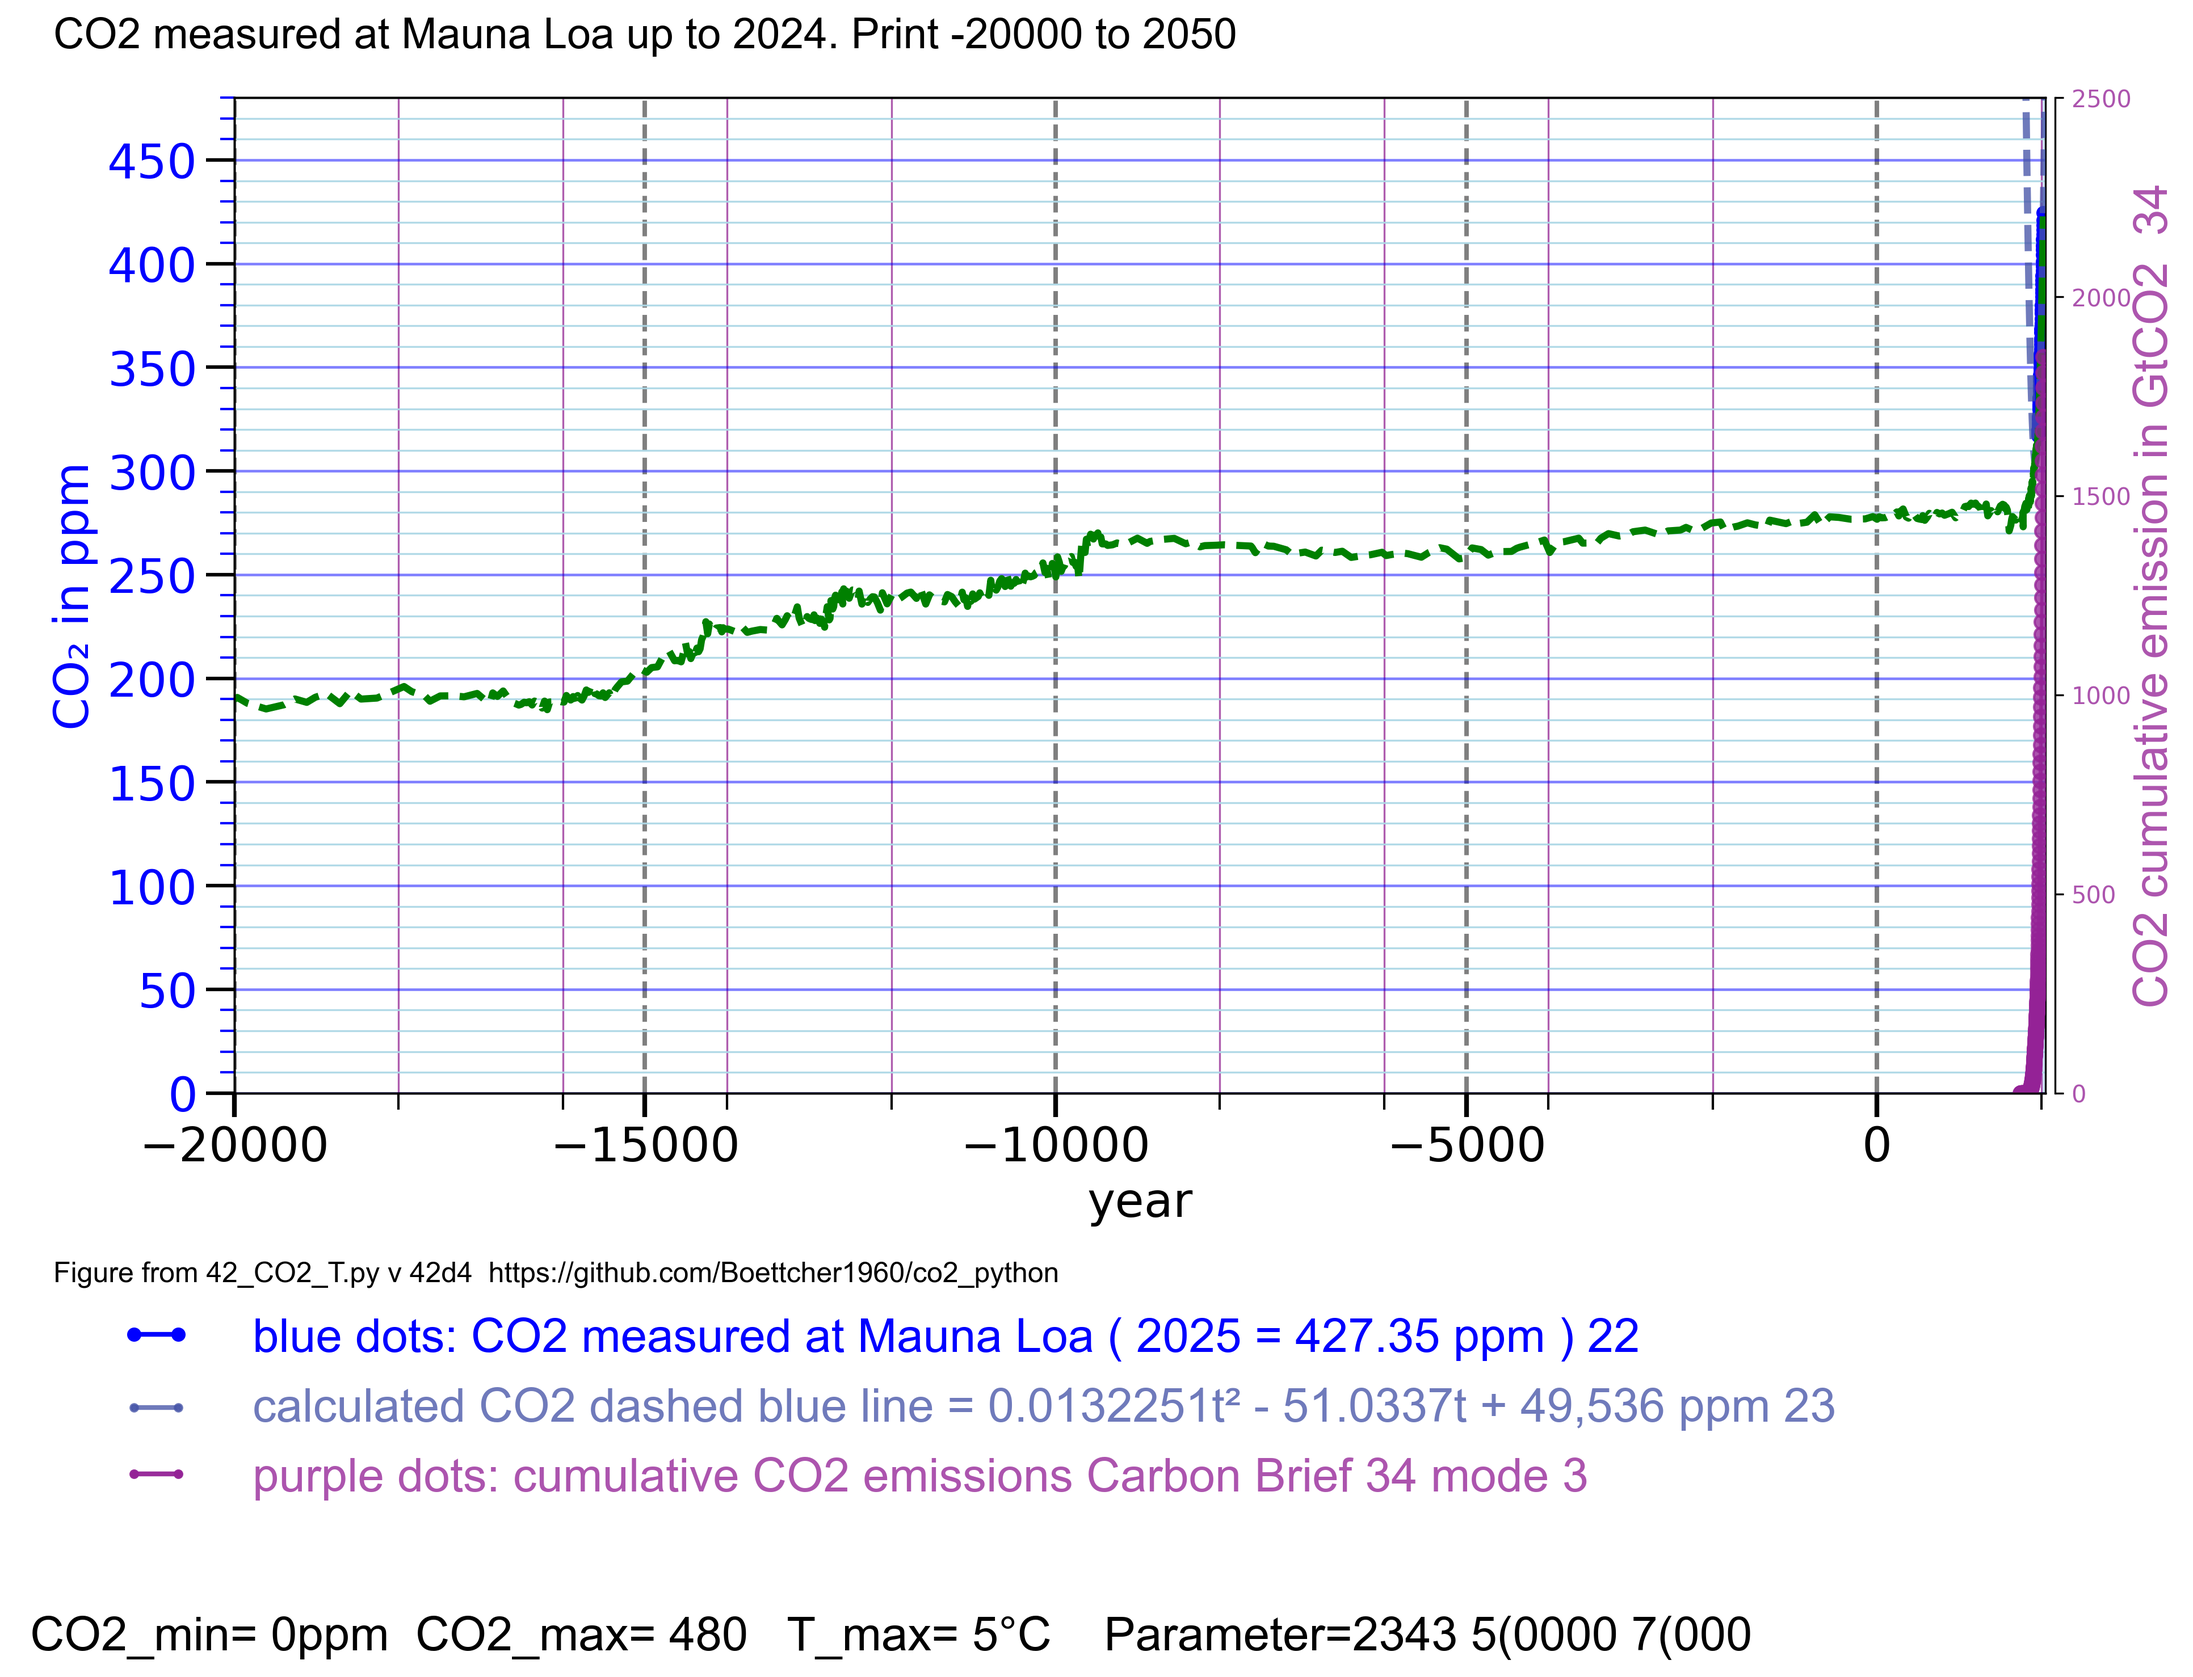
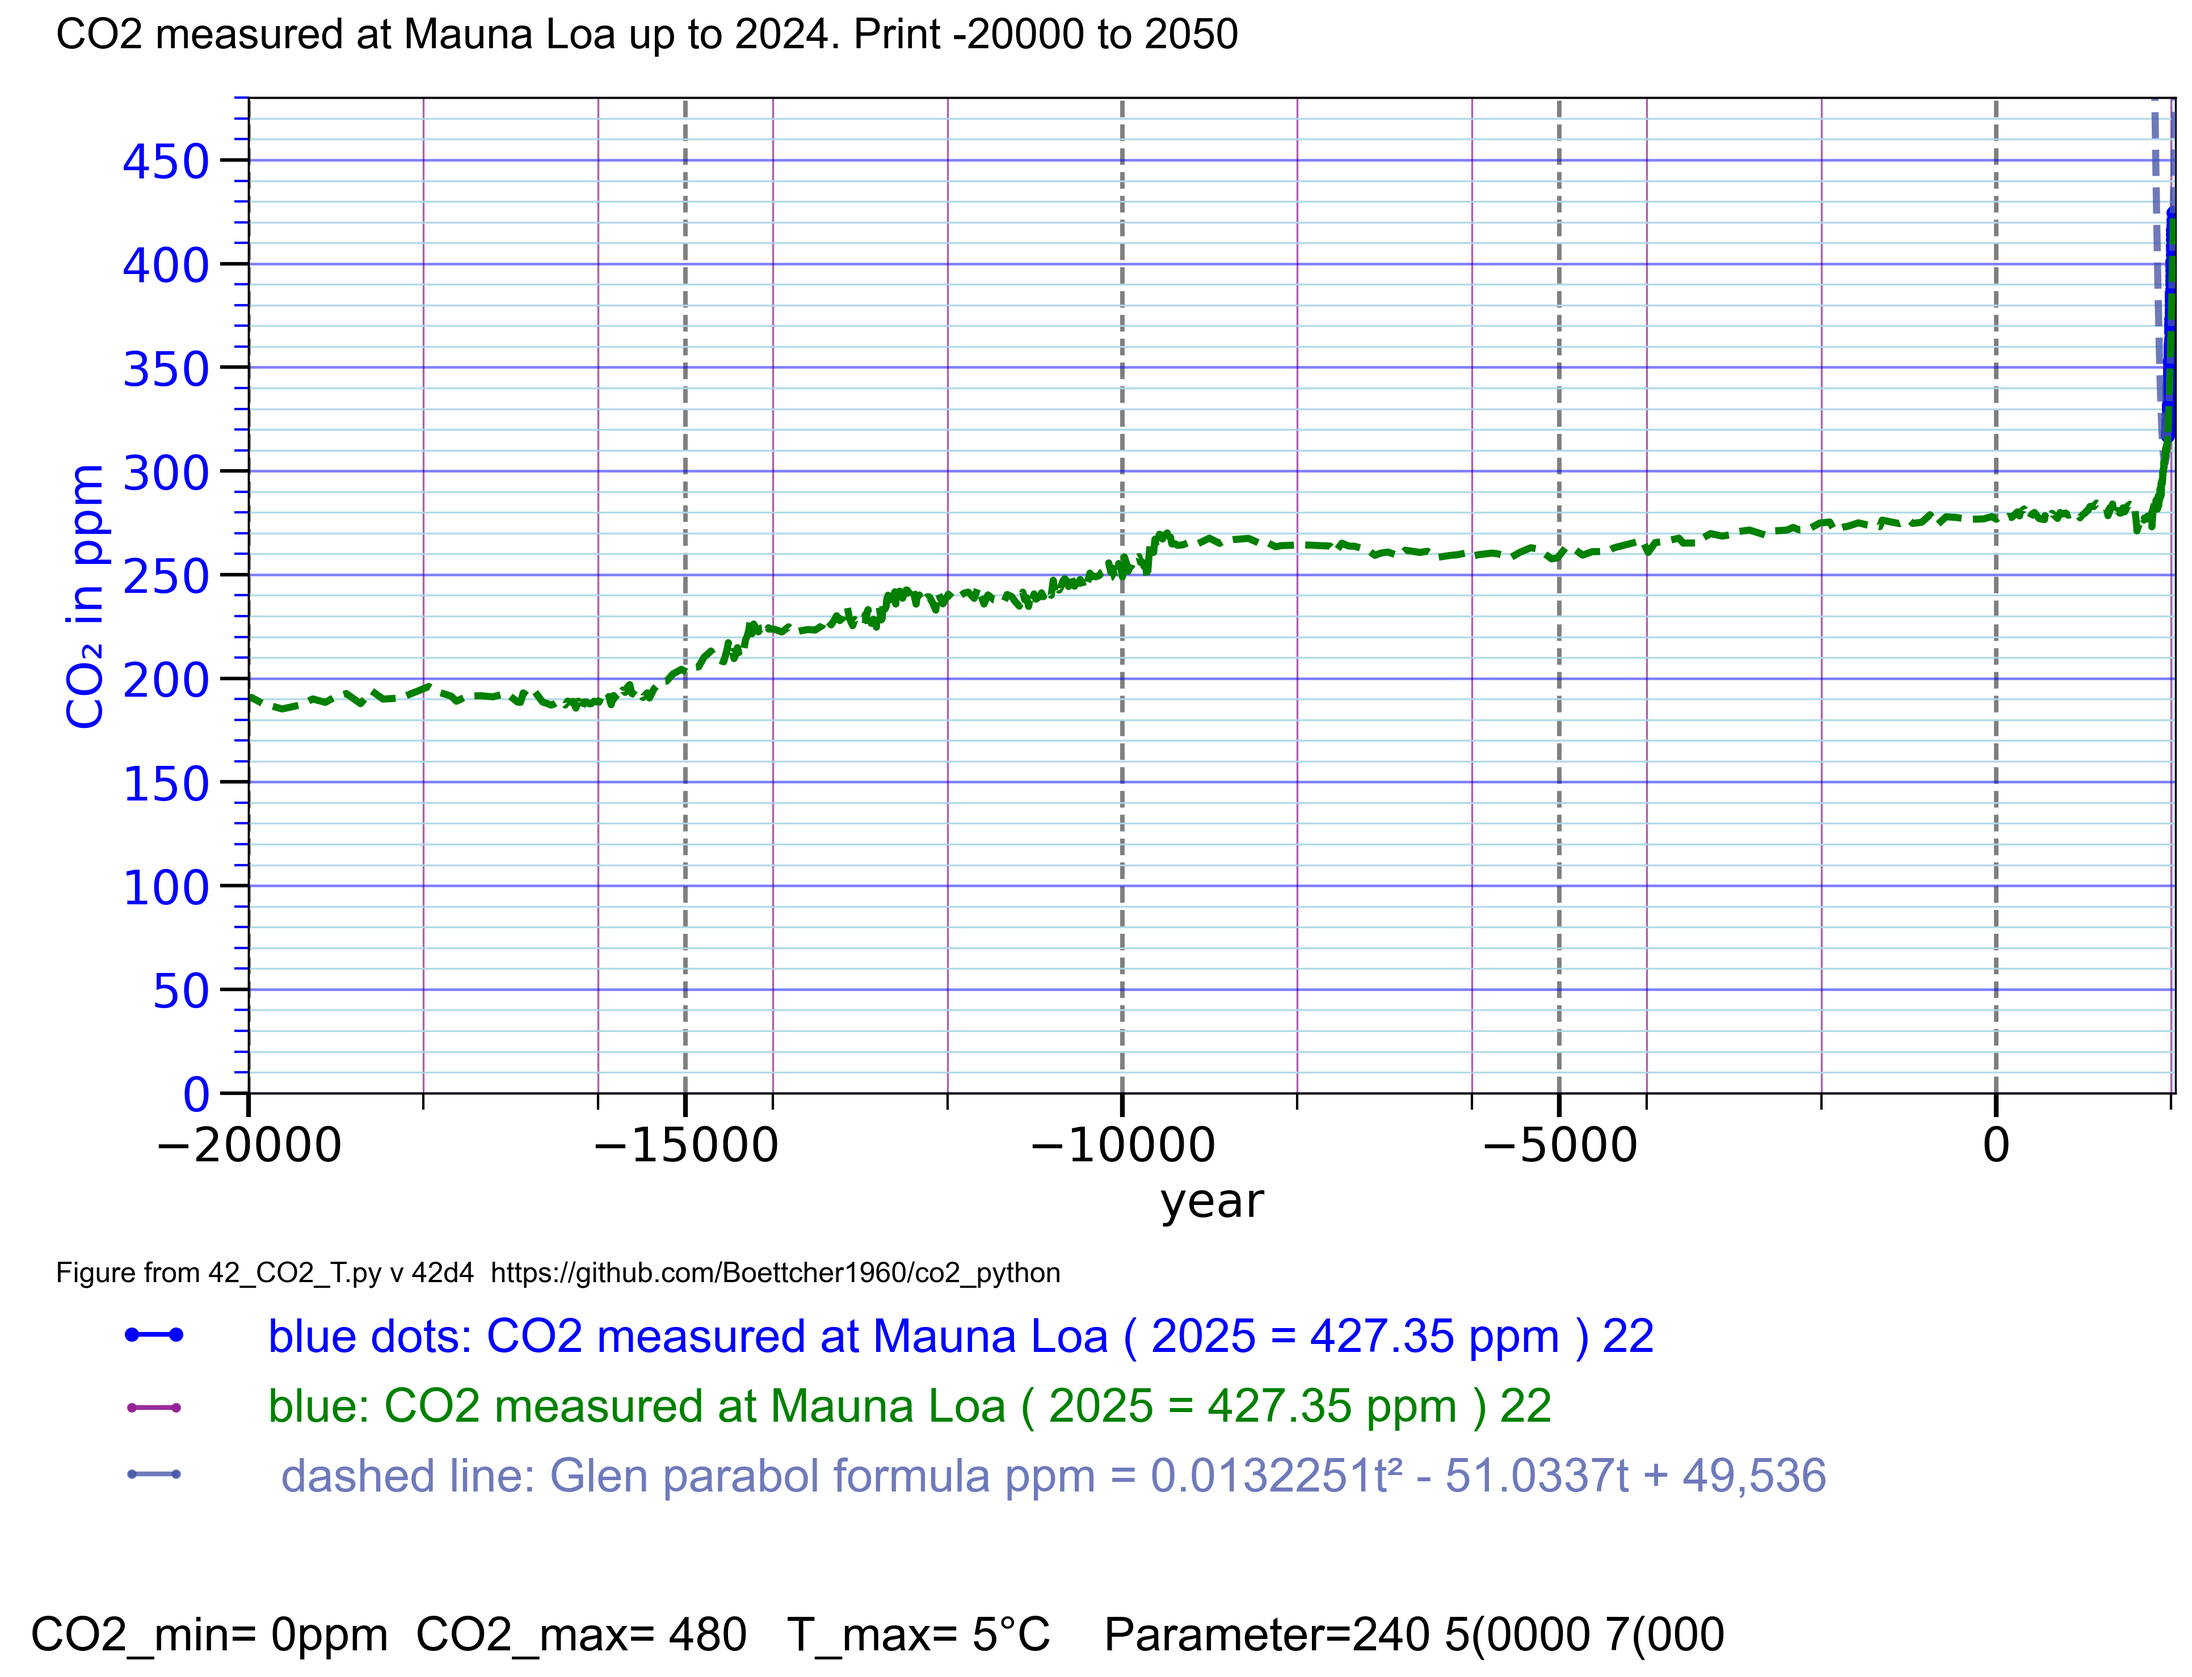
v = "42d4" # c25 long ppm plot25_long_CO2

diff --git a/42_CO2_T.py b/42_CO2_T.py
@@ -1,5 +1,5 @@
 # 42_CO2_T.py 
-v = "42d4" # c25 long ppm
+v = "42d4" # c25 long ppm plot25_long_CO2
 # Thomas Boettcher
 # part 1 configure 
 # part 2.2 plot CO2 Mauna Loa
@@ -34,7 +34,7 @@ import sys
 # 1.2 Parameter decide which curves to plot
 plot22_CO2_Mauna_Loa = 2 # 1, 2 print in line 2 # 0 no plot CO2 # 1 Mauna Loa 
 c22 = "blue" # plot1 color
-plot23_Glen_CO2 = 3 # 2, 3 print in line 2, 3, 0 keine Kurve Glen , 1 = 0.013t² - 51t + 49,536 in dark blue  
+plot23_Glen_CO2 = 4 # 2, 3 print in line 2, 3, 0 keine Kurve Glen , 1 = 0.013t² - 51t + 49,536 in dark blue  
 c23 = "#4554A8C6"   # c23 = "#4B3FD1"
 
 plot25_long_CO2 = 3 # 2, 3 print -800 000 years ppm CO2 file
@@ -42,7 +42,7 @@ c25 = "#A8349DC5"
 c25 = "green"
 # https://ourworldindata.org/grapher/co2-long-term-concentration?overlay=download-data
 
-plot34_CO2_emission = 43 # 34 row3 mode 4, 42 row 4 mode 2   cumulative CO2 emissions 1750 to 2024
+plot34_CO2_emission = 0 # 43, 34 row3 mode 4, 42 row 4 mode 2   cumulative CO2 emissions 1750 to 2024
 c34 = "purple"
 c34 = "#942296C5" 
 # no part 4
@@ -918,6 +918,15 @@ if plot23_Glen_CO2 == 3: # print in line 3
    # 9.3.3 write blue text
    plt.text(tr2x, tr3y, text_plot23_Glen, color=c23, fontname="Arial", fontsize=trs,
    transform=plt.gca().transAxes)
+elif plot25_long_CO2 == 3: # 
+   line25 = Line2D([lr2x1, lr2x2], [lr3y, lr3y], # y from 0 to 1
+   transform=fig.transFigure,
+   marker="o", markersize=3, color=c34, linewidth=2)
+   fig.add_artist(line25)
+   plt.text(tr2x, tr3y, blue25_text, color=c25, fontname="Arial", fontsize=trs,
+   transform=plt.gca().transAxes)
+   fig.add_artist(line25)
+
 # 9.3.4 print line 3 green Glen data below the figure marker="_", markersize=5, color="green", linewidth=8)
 elif plot34_CO2_emission == 3: # 
    line34 = Line2D([lr2x1, lr2x2], [lr3y, lr3y], # y from 0 to 1
